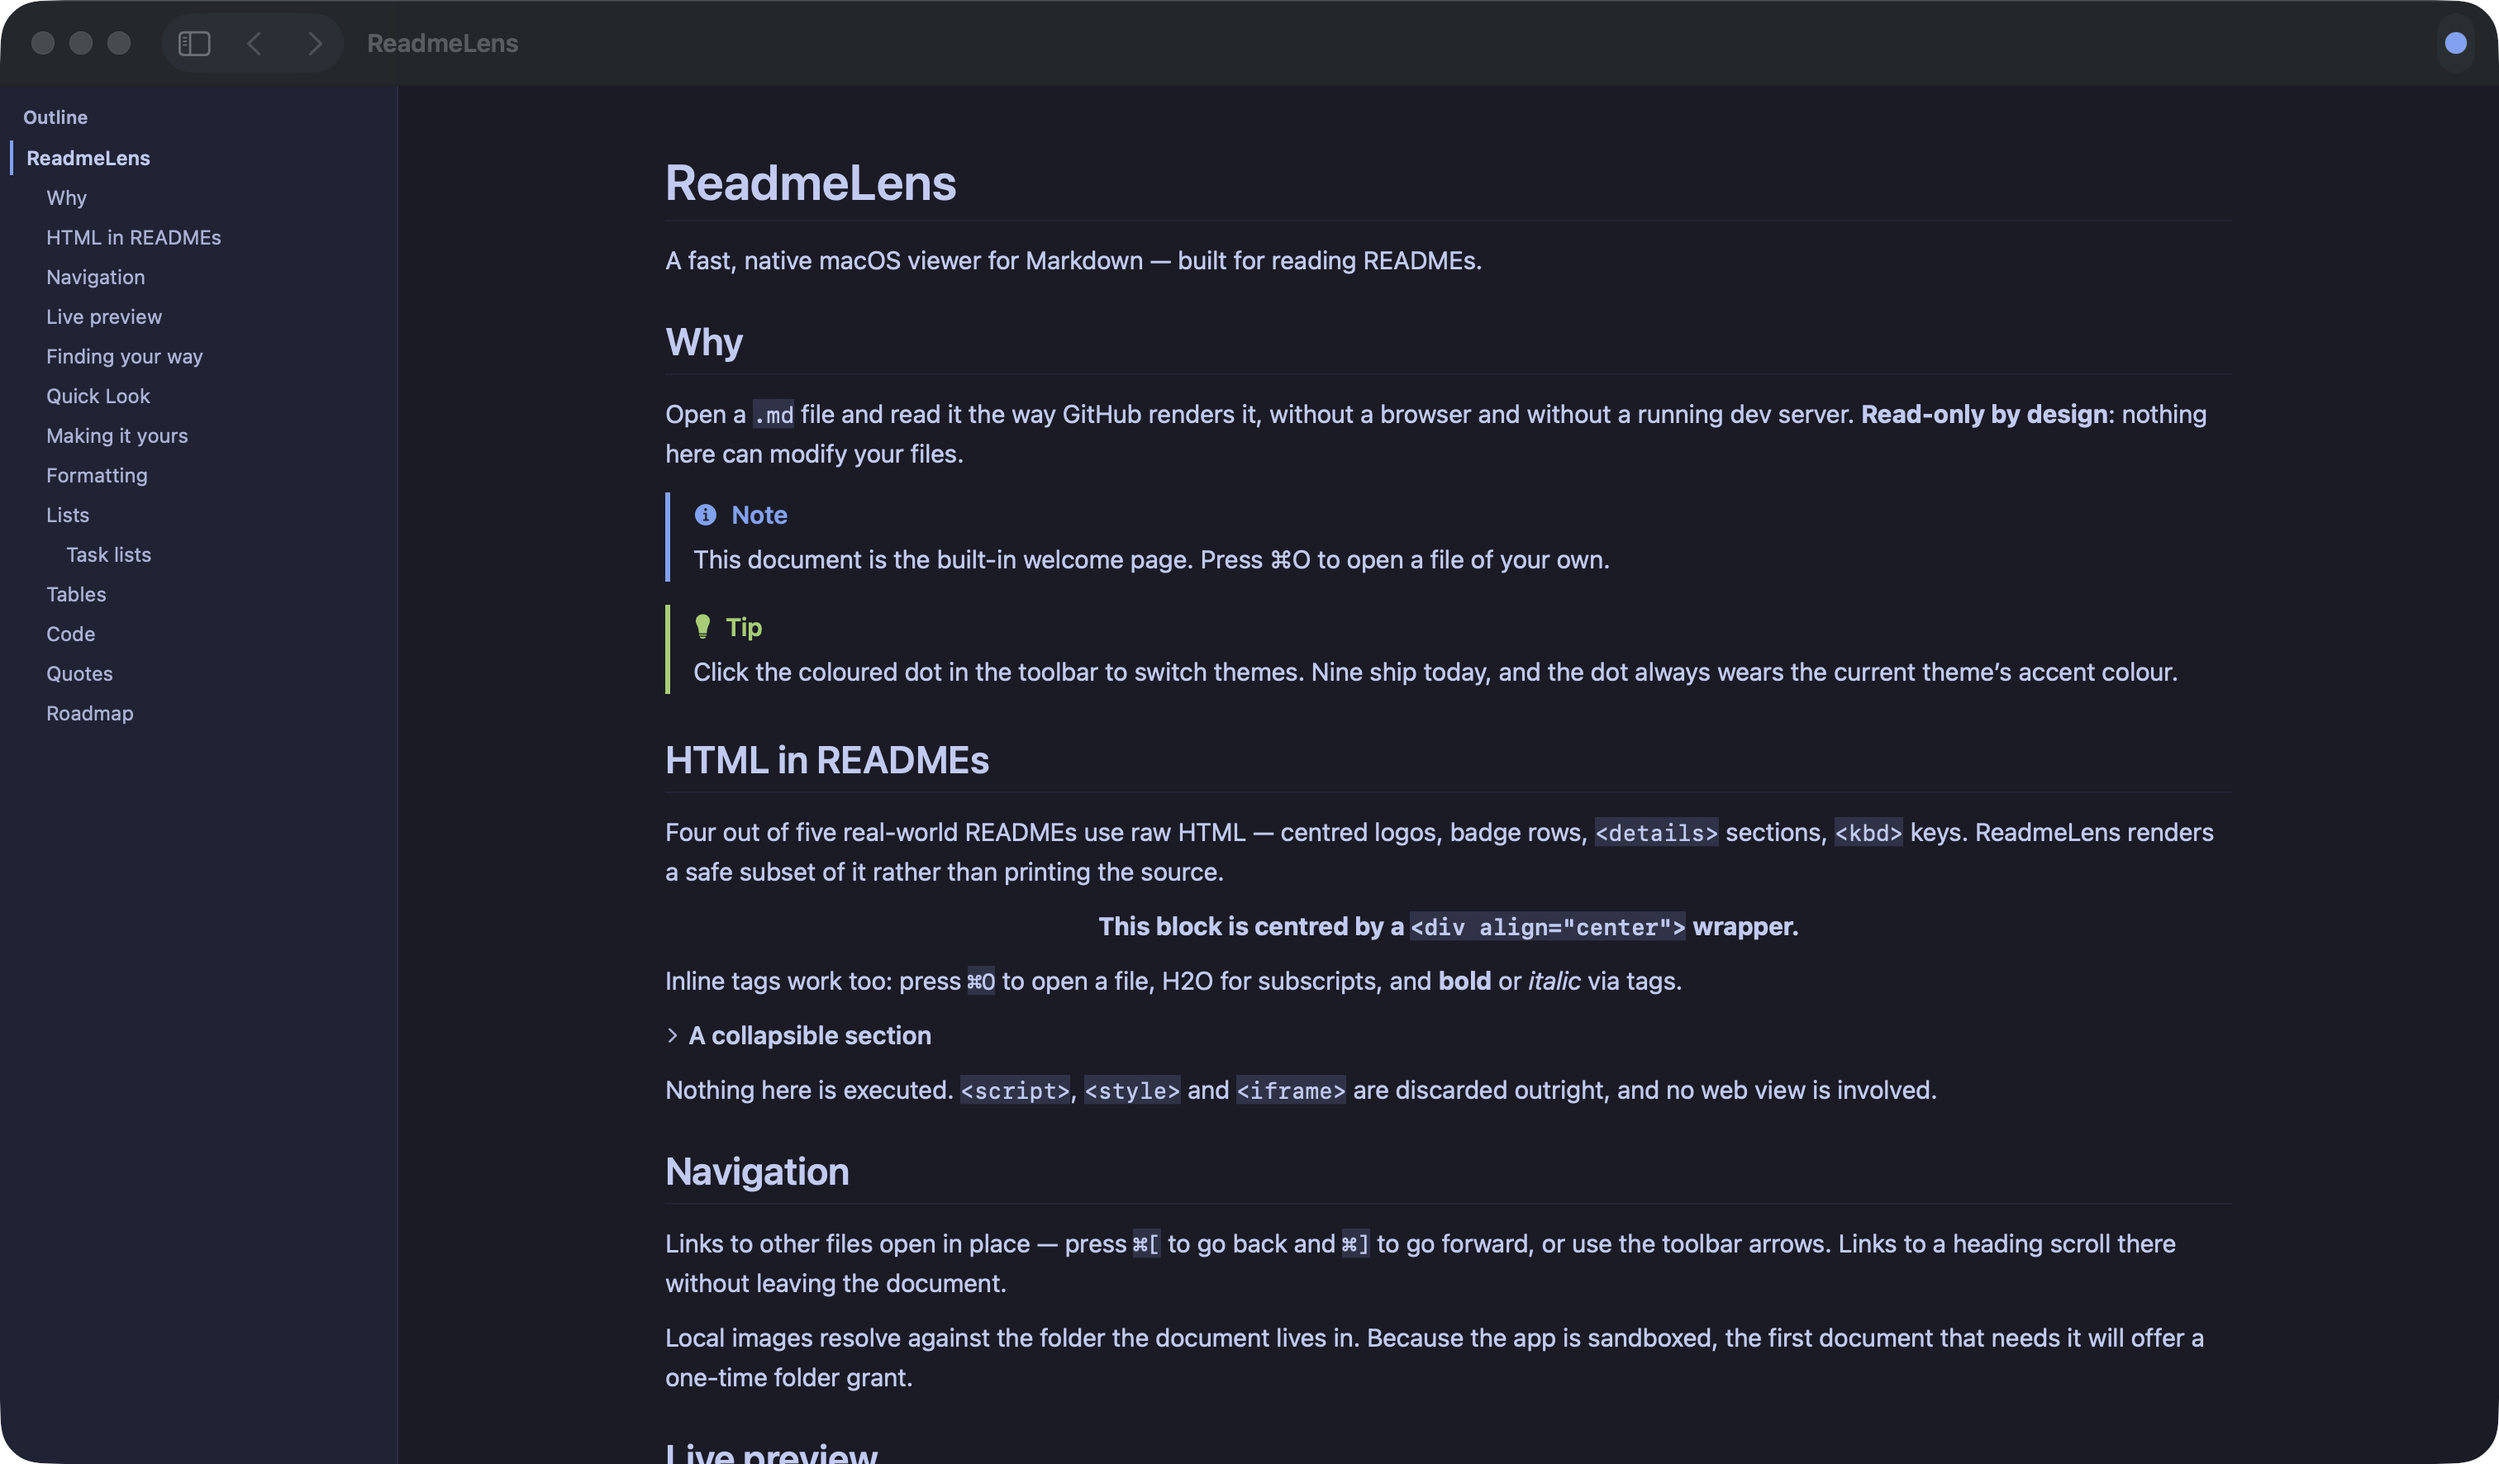
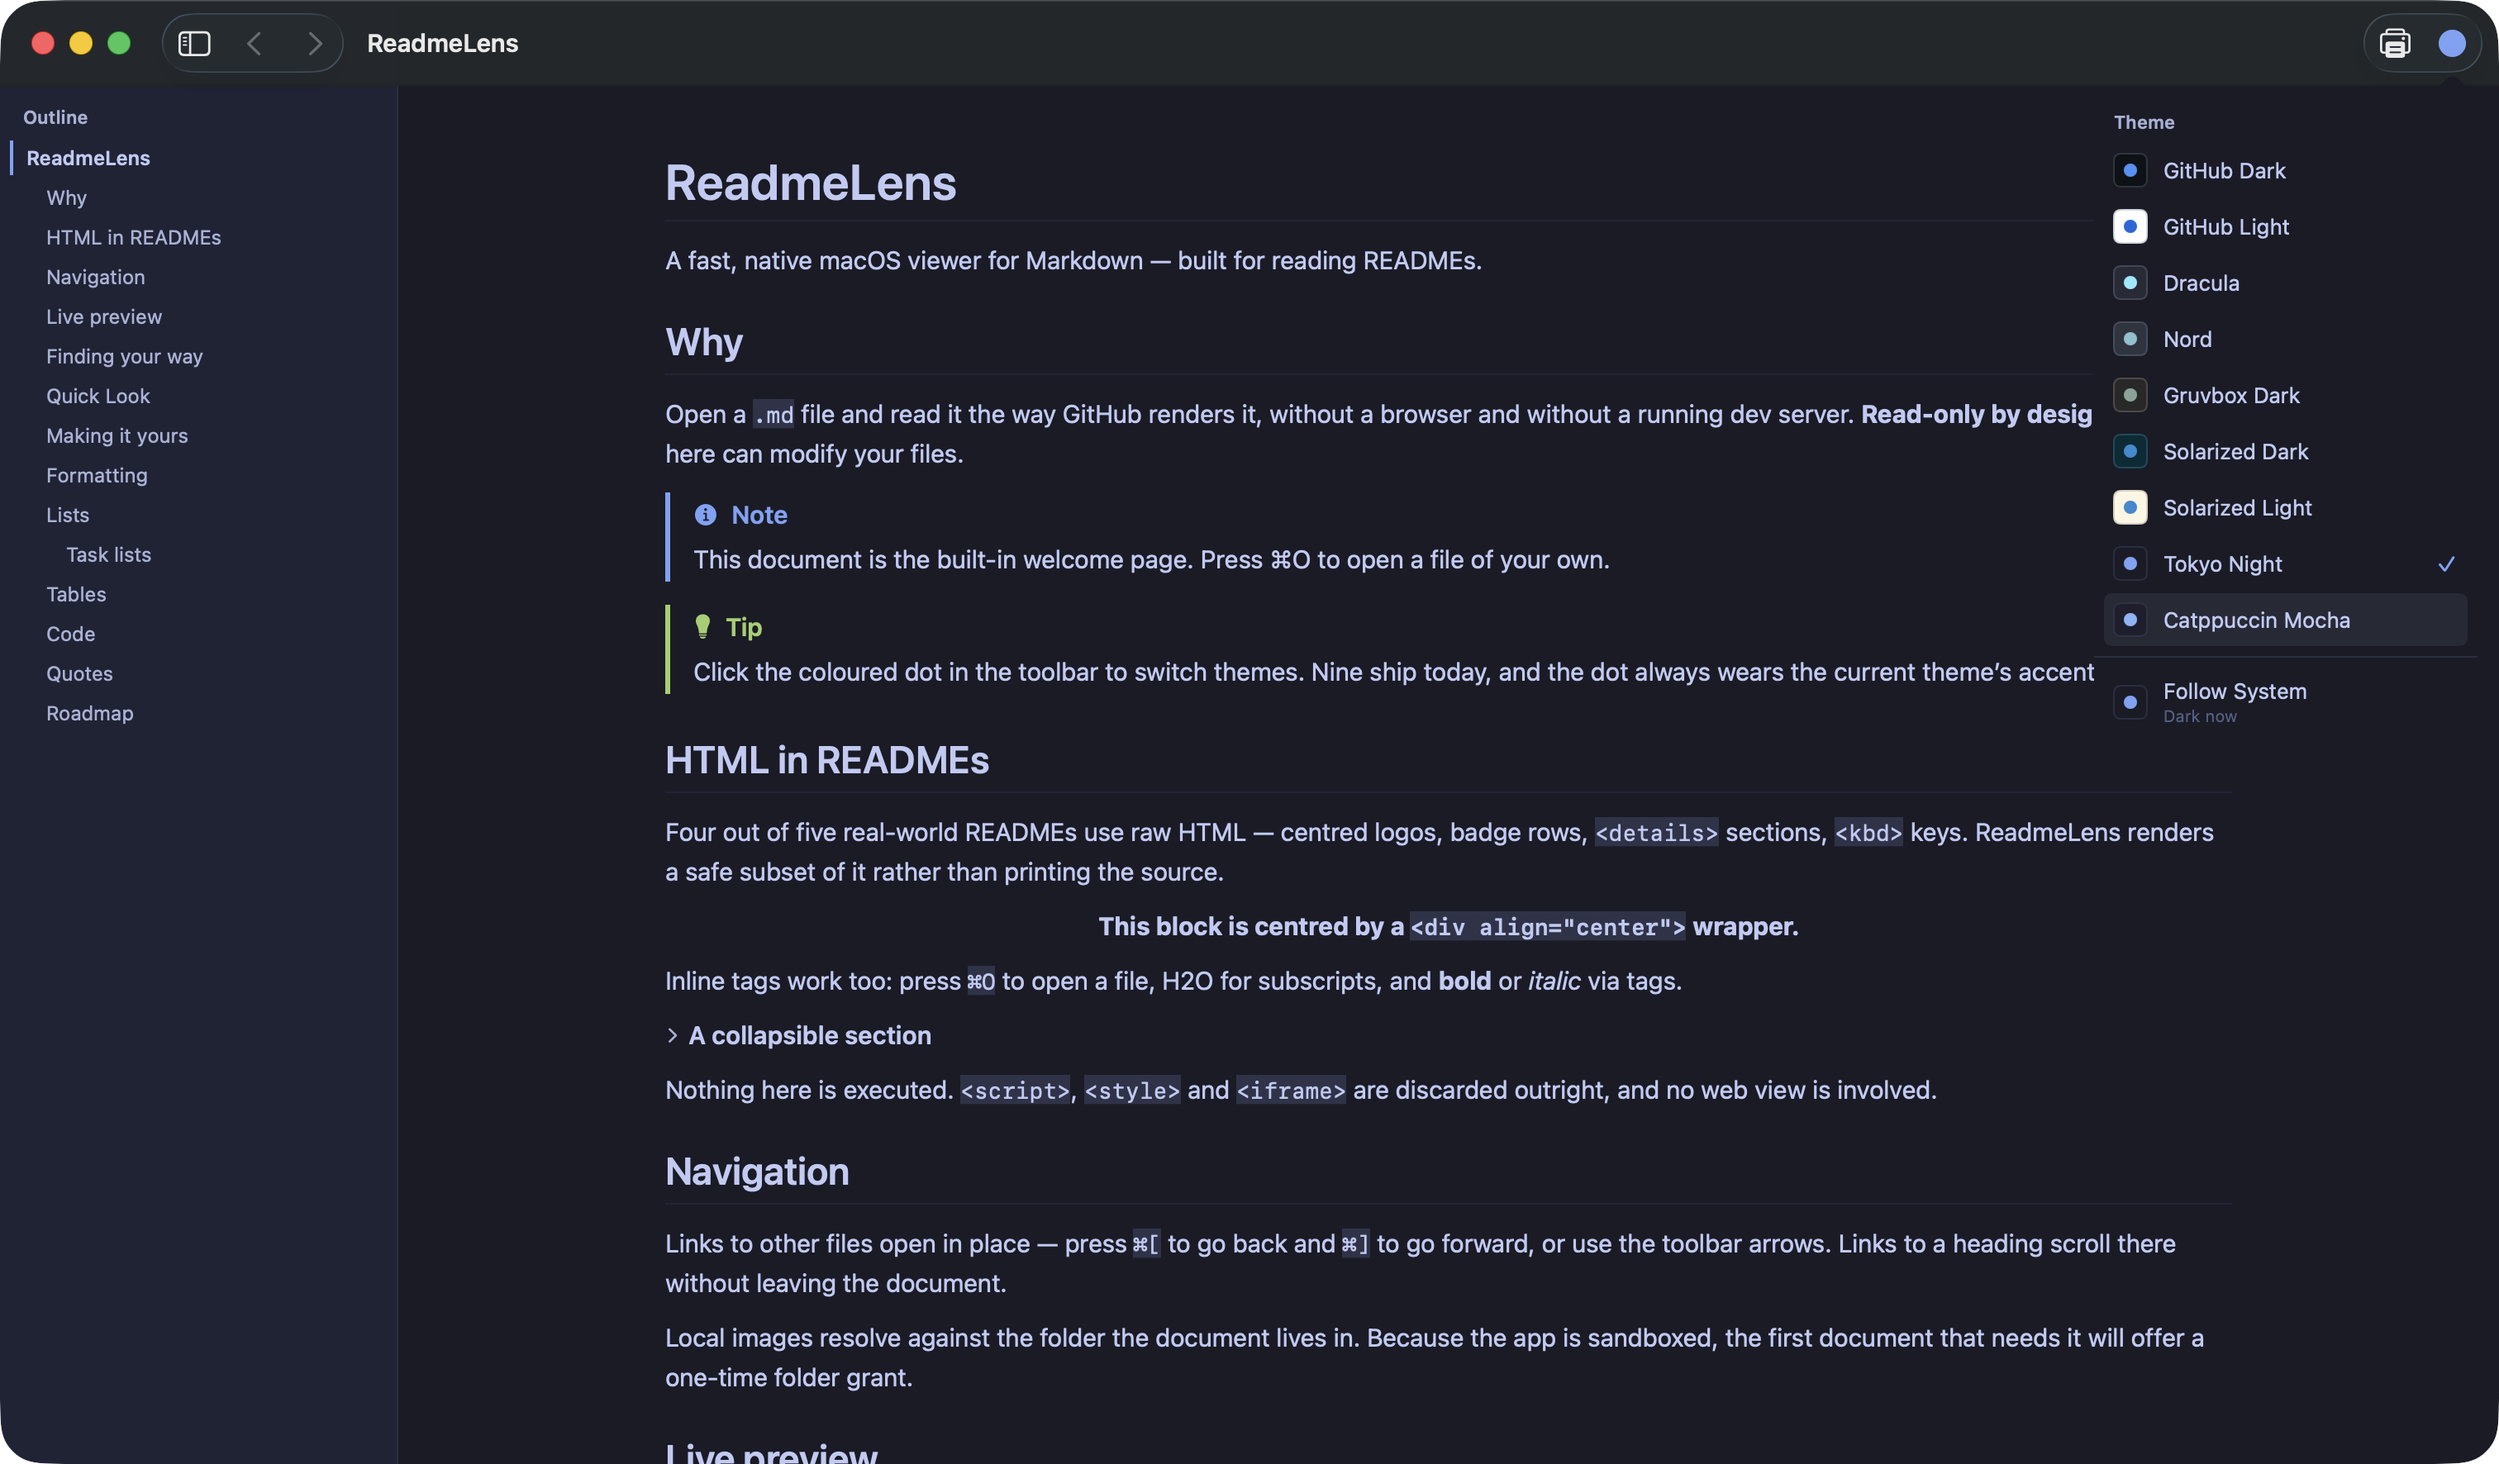
Fix the theme dot's shape, add a toolbar print button, enable printing
- The theme switcher rendered as a vertical oval. macOS gives every
  toolbar button a capsule background sized to its content, and a bare
  13pt Circle made that capsule taller than it was wide. Using an SF
  Symbol instead gives the toolbar the metrics it expects, so the button
  is round like any other.
- Added a printer button to the toolbar, left of the theme dot.
- Printing never actually worked: a sandboxed app needs
  com.apple.security.print, and without it macOS refuses with its own
  "this application does not support printing" alert no matter what the
  app implements. The earlier fix to handle AppKit's print: action was
  necessary but not sufficient.

The entitlement covers printing only. File access remains read-only, so
PDF output still goes through the print system rather than the app.

diff --git a/Sources/Views/ThemePickerButton.swift b/Sources/Views/ThemePickerButton.swift
@@ -10,20 +10,18 @@ struct ThemePickerButton: View {
     @State private var isPresented = false
 
     var body: some View {
+        // An SF Symbol rather than a hand-drawn Circle: the toolbar gives every
+        // button a capsule background sized to its content, and a bare 13pt
+        // circle made that capsule taller than it was wide — a vertical oval.
+        // A symbol carries the metrics the toolbar expects, so it sits in a
+        // round button like any other item.
         Button {
             isPresented.toggle()
         } label: {
-            Circle()
-                .fill(theme.link)
-                .frame(width: 13, height: 13)
-                .overlay(
-                    Circle().stroke(theme.fg.opacity(0.25), lineWidth: 0.5)
-                )
-                // A hit area larger than the dot, so it stays easy to click.
-                .padding(5)
-                .contentShape(Circle())
+            Image(systemName: "circle.fill")
+                .font(.system(size: 13))
+                .foregroundStyle(theme.link)
         }
-        .buttonStyle(.plain)
         .help("Theme — \(themeStore.displayName)")
         .popover(isPresented: $isPresented, arrowEdge: .bottom) {
             ThemePalettePopover(isPresented: $isPresented)

diff --git a/Sources/Views/ContentView.swift b/Sources/Views/ContentView.swift
@@ -39,7 +39,15 @@ struct ContentView: View {
                     .disabled(!document.canGoForward)
                     .help("Forward")
             }
-            ToolbarItem(placement: .primaryAction) {
+            ToolbarItemGroup(placement: .primaryAction) {
+                Button {
+                    AppDelegate.printHandler?()
+                } label: {
+                    Image(systemName: "printer")
+                }
+                .disabled(document.blocks.isEmpty)
+                .help("Print… (⌘P)")
+
                 ThemePickerButton()
             }
         }

diff --git a/README.md b/README.md
@@ -79,8 +79,14 @@ A complete example is in [docs/example-theme.json](docs/example-theme.json).
 routing it that way means the print system does the writing and the app keeps
 its read-only sandbox.
 
+There is a printer button in the toolbar next to the theme dot, as well as `⌘P`.
+
 Dark themes print on a light ground; printing a dark canvas wastes ink and reads
 badly on paper.
+
+A sandboxed app needs `com.apple.security.print` to print at all — without it
+macOS refuses with its own "this application does not support printing" alert.
+That entitlement covers printing only; file access remains read-only.
 
 One known limitation: pages are sliced at a fixed height, so a line of text can
 be cut across a page break. Making pagination block-aware is the fix, and it is
@@ -215,7 +221,7 @@ swift Tools/GenerateAppIcon.swift Resources/Assets.xcassets/AppIcon.appiconset
 | Settings | `⌘,` |
 | Zoom | `⌘+` / `⌘−` / `⌘0` |
 | Reading mode | `⌥⌘R` |
-| Print, or save a PDF | `⌘P`, then **PDF ▸ Save as PDF** |
+| Print, or save a PDF | `⌘P` or the toolbar printer, then **PDF ▸ Save as PDF** |
 | Reload on save | Automatic — toggle with `⇧⌘R` |
 | Switch theme | Click the dot in the toolbar |
 | Copy a code block | Hover it, then click the copy button |

diff --git a/Resources/Welcome.md b/Resources/Welcome.md
@@ -92,8 +92,8 @@ and it appears in the picker straight away. **Export Current Theme as JSON**
 gives you a complete file to edit. A theme that fails to load is reported by
 name, field and value rather than being ignored.
 
-<kbd>⌘P</kbd> prints, and the print panel's **PDF ▸ Save as PDF** is how you get
-a PDF. The print system does the writing, so this app still never needs
+<kbd>⌘P</kbd> — or the printer button in the toolbar — prints, and the print
+panel's **PDF ▸ Save as PDF** is how you get a PDF. The print system does the writing, so this app still never needs
 permission to write anything.
 
 ## Formatting
